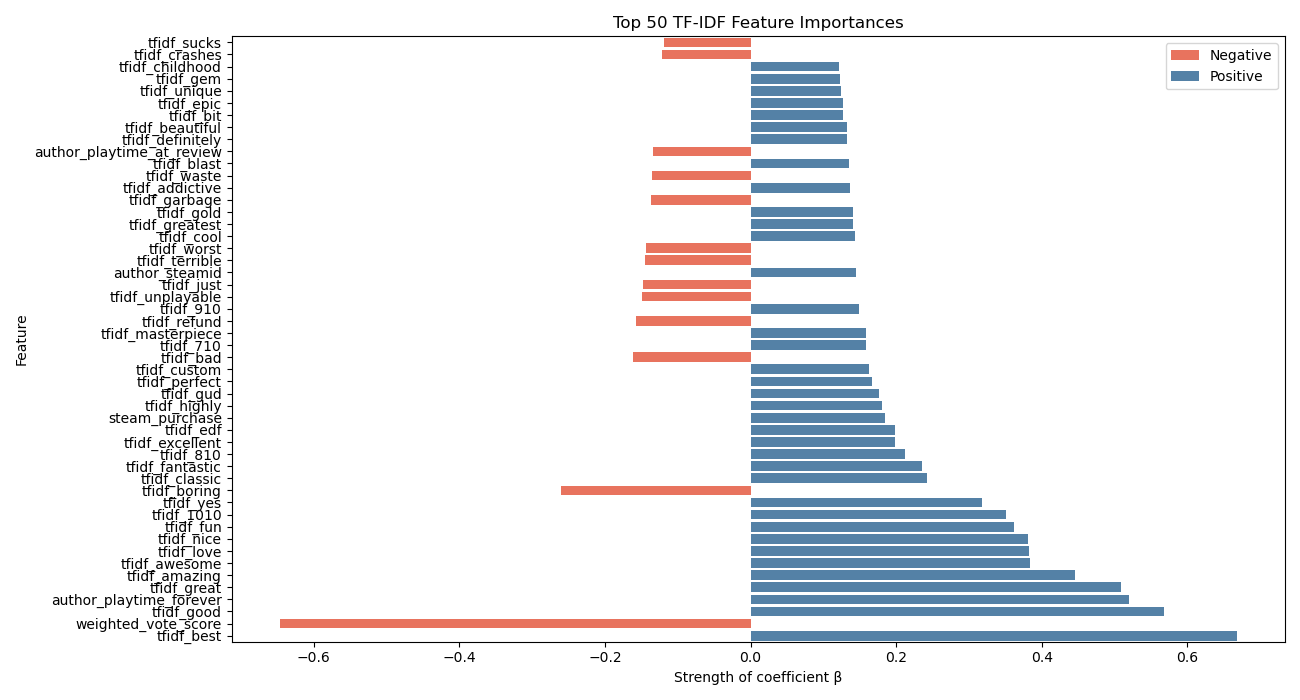
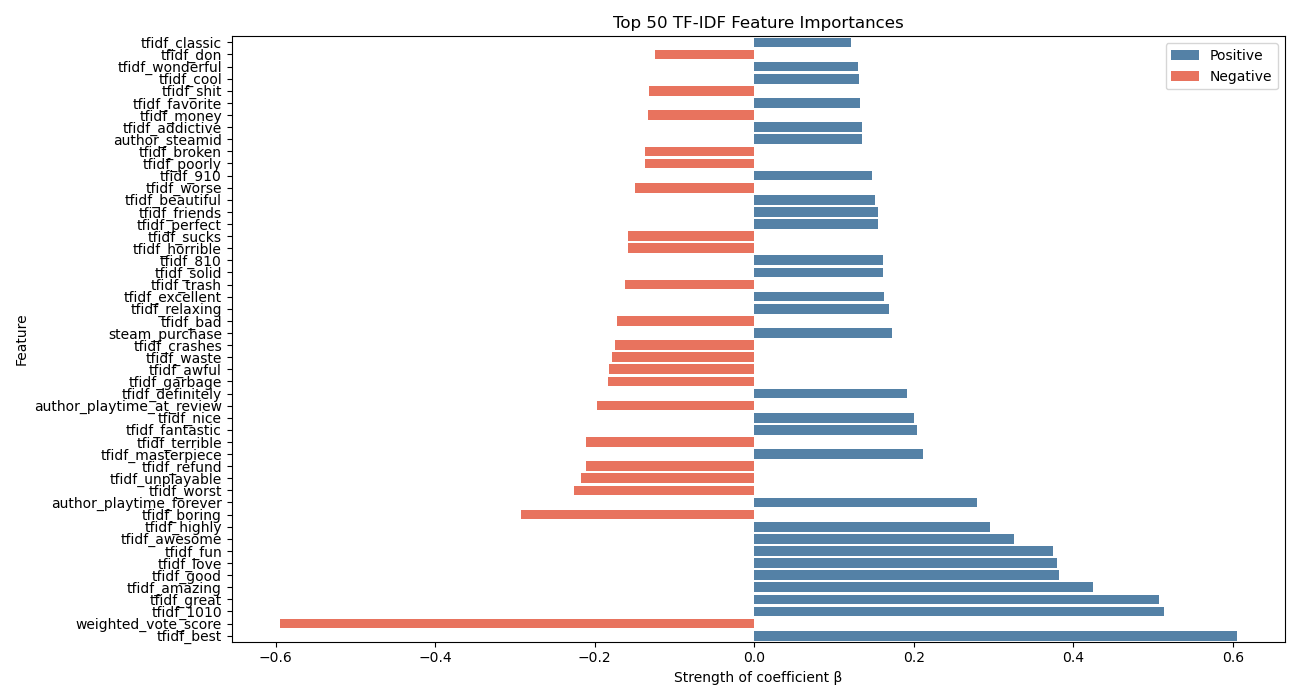
Added more visualizations, hyperparmeter tuning, feature engineering for LR

diff --git a/src/visualization/visualize.py b/src/visualization/visualize.py
@@ -4,6 +4,7 @@ import numpy as np
 import matplotlib.pyplot as plt
 import seaborn as sns
 import os
+from sklearn.metrics import confusion_matrix
 from sklearn.metrics import roc_curve, auc
 
 class LogisticRegressionVisualizer():
@@ -39,6 +40,29 @@ class LogisticRegressionVisualizer():
         plt.savefig(f"{base_dir}/../../reports/figures/feature_importance.png")
         plt.show()
 
+    def plot_confusion_matrix(self, y_test, y_pred):
+        """
+        Plots a heatmap of the confusion matrix showing true vs predicted labels.
+        """
+        cm = confusion_matrix(y_test, y_pred)
+        plt.figure(figsize=(8, 6))
+        sns.heatmap(cm, annot=True, fmt='d', cmap='Blues',
+                    xticklabels=['Predicted Negative', 'Predicted Positive'],
+                    yticklabels=['Actually Negative', 'Actually Positive'])
+        plt.title("Logistic Regression Confusion Matrix")
+        plt.tight_layout()
+        base_dir = os.path.dirname(os.path.abspath(__file__))
+        os.makedirs(f"{base_dir}/../../reports/figures", exist_ok=True)
+        plt.savefig(f"{base_dir}/../../reports/figures/lr_confusion_matrix.png")
+        plt.show()
+        
+    def plot_all(self, y_test, y_pred):
+        """
+        Run all visualizations
+        """
+        self.plot_feature_importance()
+        self.plot_confusion_matrix(y_test, y_pred)
+        
 class RandomForestVisualizer():
     def __init__(self, model, feature_cols):
         self.model = model
@@ -60,7 +84,30 @@ class RandomForestVisualizer():
         os.makedirs(f"{base_dir}/../../reports/figures", exist_ok=True)
         plt.savefig(f"{base_dir}/../../reports/figures/rf_feature_importance.png")
         plt.show()
-
+    
+    def plot_confusion_matrix(self, y_test, y_pred):
+        """
+        Plots a heatmap of the confusion matrix showing true vs predicted labels.
+        """
+        cm = confusion_matrix(y_test, y_pred)
+        plt.figure(figsize=(8, 6))
+        sns.heatmap(cm, annot=True, fmt='d', cmap='Blues',
+                    xticklabels=['Predicted Negative', 'Predicted Positive'],
+                    yticklabels=['Actually Negative', 'Actually Positive'])
+        plt.title("Random Forest Confusion Matrix")
+        plt.tight_layout()
+        base_dir = os.path.dirname(os.path.abspath(__file__))
+        os.makedirs(f"{base_dir}/../../reports/figures", exist_ok=True)
+        plt.savefig(f"{base_dir}/../../reports/figures/rf_confusion_matrix.png")
+        plt.show()
+        
+    def plot_all(self, y_test, y_pred):
+        """
+        Run all visualizations
+        """
+        self.plot_feature_importance()
+        self.plot_confusion_matrix(y_test, y_pred)
+        
 class TFIDFVisualizer():
     def __init__(self, model, feature_cols):
         self.model = model
@@ -90,6 +137,7 @@ class TFIDFVisualizer():
         plt.show()
         
         
+        
 class LSTMVisualizer():
     def __init__(self, model, history, y_test, y_pred, y_pred_proba):
         self.model = model
@@ -100,6 +148,11 @@ class LSTMVisualizer():
         self.base_dir = os.path.dirname(os.path.abspath(__file__))
         
     def plot_training_history(self):
+        """
+        PLots training and validation loss over each epoch.
+        Growing gap between training and validation indicates overfitting,
+        memorizing rather than generalizing. 
+        """
         plt.figure(figsize=(10,5))
         plt.plot(self.history.history["loss"], label="Training Loss", color="steelblue")
         plt.plot(self.history.history["val_loss"], label = "Validation Loss", color = "tomato")
@@ -116,7 +169,6 @@ class LSTMVisualizer():
         """
         Plots a heatmap of the confusion matrix showing true vs predicted labels.
         """
-        from sklearn.metrics import confusion_matrix
         cm = confusion_matrix(self.y_test, self.y_pred)
 
         plt.figure(figsize=(8, 6))
@@ -153,9 +205,41 @@ class LSTMVisualizer():
         """
         Run all visualizations
         """
-        print(f"history: {self.history}")
-        print(f"y_pred: {self.y_pred}")
-        print(f"y_pred_proba: {self.y_pred_proba:}")
         self.plot_training_history()
         self.plot_confusion_matrix()
         self.plot_roc_curve()
+        
+class ModelComparisonVisualizer():
+    def __init__(self, results_dict):
+        """
+        Args:
+            results_dict: Dictionary of model names to their metrics dictionaries
+            Example: {"LR": lr_results, "RF": rf_results, "LSTM": lstm_results}
+        """
+        self.results_dict = results_dict
+        self.base_dir = os.path.dirname(os.path.abspath(__file__))
+
+    def plot_comparison(self):
+        """
+        Plots a grouped bar chart comparing accuracy, precision,
+        recall and f1 score across all models.
+        """
+        metrics = ["accuracy", "precision", "recall", "f1_score"]
+
+        comparison_df = pd.DataFrame({
+            model: [results[m] for m in metrics]
+            for model, results in self.results_dict.items()
+        }, index=metrics)
+
+        comparison_df.plot(kind="bar", figsize=(12, 6), colormap="Set2", edgecolor="black")
+        plt.xlabel("Metric")
+        plt.ylabel("Score")
+        plt.title("Model Comparison")
+        plt.xticks(rotation=0)
+        plt.ylim(0, 1)
+        plt.legend(title="Model")
+        plt.tight_layout()
+        os.makedirs(f"{self.base_dir}/../../reports/figures", exist_ok=True)
+        plt.savefig(f"{self.base_dir}/../../reports/figures/model_comparison.png")
+        plt.show()
+    

diff --git a/src/models/train_model.py b/src/models/train_model.py
@@ -2,9 +2,9 @@
 import joblib
 import os
 import sklearn.linear_model as skl_lm
-from sklearn.model_selection import GridSearchCV
 from sklearn.preprocessing import StandardScaler
 from sklearn.ensemble import RandomForestClassifier
+from sklearn.model_selection import RandomizedSearchCV
 from sklearn.metrics import accuracy_score, precision_score, recall_score, f1_score, confusion_matrix
 import pandas as pd
 import numpy as np
@@ -136,12 +136,50 @@ class BasicRandomForestTraining:
         self.X_test = self.test_df[features]
         self.y_test = self.test_df[target_variable]
 
-    def train(self):
+    def tune_hyperparameters(self):
+        """
+        Usee RandomizedSearchCV to find optimal hyperparameters for
+        RandomForest model
+
+        Returns:
+            best_params_: Dictionary of the best hyperparams
+        """
+        param_dist = {
+            "n_estimators": [50, 100, 200],
+            "max_depth": [None, 10, 20, 30],
+            "min_samples_split": [2, 5, 10],
+            "max_features": ["sqrt", "log2"]
+        }
+        
+        random_search = RandomizedSearchCV(
+            RandomForestClassifier(class_weight="balanced", random_state=42),
+            param_distributions=param_dist,
+            n_iter=10,
+            cv=3,
+            scoring="f1",
+            verbose=1,
+            random_state=42
+        )
+
+        random_search.fit(self.X_train, self.y_train)
+        
+        print(f"Best parameters: {random_search.best_params_}")
+        print(f"Best F1 score: {random_search.best_score_:.4f}")
+
+        return random_search.best_params_
+    
+    def train(self, best_params=None):
         """
         Trains the Random Forest model and saves it to disk.
         No scaling required since decision trees are not
         sensitive to feature scale.
         """
+        if best_params:
+            self.model = RandomForestClassifier(
+            class_weight="balanced",
+            random_state=42,
+            **best_params
+        )
         self.model.fit(self.X_train, self.y_train)
 
         base_dir = os.path.dirname(os.path.abspath(__file__))
@@ -168,6 +206,14 @@ class BasicRandomForestTraining:
     def run_rf_pipeline(self):
         self.set_features()
         self.train()
+        #Train without tuning to compare results
+        default_results = self.evaluate()
+        print("\nDefault Random Forest Results:")
+        for k, v in default_results.items():
+            print(f"{k}: {v}")
+        #Train with tuning
+        best_params = self.tune_hyperparameters()
+        self.train(best_params)
         return self.evaluate()
     
 class LSTMTraining:

diff --git a/src/main.py b/src/main.py
@@ -2,20 +2,24 @@
 from preprocessing_data.pre_processing import PreProcessor
 from feature_engineering.build_features import LogisticRegressionFeatureEngineering, TFIDFFeatureEngineering,LSTMFeatureEngineering
 from models.train_model import BasicLogisticRegressionTraining, BasicRandomForestTraining,LSTMTraining
-from visualization.visualize import LogisticRegressionVisualizer, RandomForestVisualizer, TFIDFVisualizer,LSTMVisualizer
+from visualization.visualize import LogisticRegressionVisualizer, RandomForestVisualizer, TFIDFVisualizer,LSTMVisualizer, ModelComparisonVisualizer
 
 def main():
-    processor = PreProcessor("src/data/raw/all_reviews.csv")
-    df = processor.preprocess(1000000)
+    processor = PreProcessor("src/data/raw/balanced_10m_reviews.csv")
+    df = processor.preprocess(100000)
     
     feature_builder = LogisticRegressionFeatureEngineering(df)
+    #Save original feature list
+    original_feature_cols = feature_builder.feature_cols.copy()
+    base_train_df, base_test_df = feature_builder.split_data()
+    #Add new features for LR only
     feature_builder.votes_ratio()
     feature_builder.playtime_ratio()
     feature_builder.review_length()
-    base_train_df, base_test_df = feature_builder.split_data()
+    lr_train_df, lr_test_df = feature_builder.split_data()
     feature_builder.save_data(base_train_df, base_test_df)
     
-    lr_trainer = BasicLogisticRegressionTraining(base_train_df, base_test_df, feature_builder)
+    lr_trainer = BasicLogisticRegressionTraining(lr_train_df, lr_test_df, feature_builder)
     lr_results = lr_trainer.run_lr_pipeline()
     
     print("\nLogistic Regression Results:")
@@ -23,8 +27,8 @@ def main():
         print(f"{k}: {v}")
     
     plot = LogisticRegressionVisualizer(lr_trainer.model, feature_builder.feature_cols)
-    plot.plot_feature_importance()
-    """
+    plot.plot_all(lr_trainer.y_test, lr_trainer.y_pred)
+    
     tfidf_builder = TFIDFFeatureEngineering(df, max_features=1000)
     tfidf_builder.build_tfidf_features()
     tfidf_train_df, tfidf_test_df = tfidf_builder.split_data()
@@ -41,7 +45,7 @@ def main():
 
     tfidf_plot = TFIDFVisualizer(tfidf_trainer.model, tfidf_builder.feature_cols)
     tfidf_plot.plot_feature_importance(top_n=50)
-
+    
     # Random Forest
     rf_trainer = BasicRandomForestTraining(base_train_df, base_test_df)
     rf_results = rf_trainer.run_rf_pipeline()
@@ -51,9 +55,9 @@ def main():
         print(f"{k}: {v}")
     
 
-    rf_plot = RandomForestVisualizer(rf_trainer.model, feature_builder.feature_cols)
-    rf_plot.plot_feature_importance()
-    
+    rf_plot = RandomForestVisualizer(rf_trainer.model, original_feature_cols)
+    rf_plot.plot_all(rf_trainer.y_test, rf_trainer.y_pred)
+
     #LSTM
     lstm_builder = LSTMFeatureEngineering(df)
     lstm_train_df, lstm_test_df = lstm_builder.split_data()
@@ -66,6 +70,14 @@ def main():
     lstm_plot = LSTMVisualizer(lstm_trainer.model, lstm_trainer.history, lstm_trainer.y_test, lstm_trainer.y_pred, lstm_trainer.y_pred_proba)
     lstm_plot.plot_all()
     
-    """
+    
+    comparison = ModelComparisonVisualizer({
+        "Logistic Regression": lr_results,
+        "Random Forest": rf_results,
+        "TF-IDF LR": tfidf_results,
+        "LSTM": lstm_results
+    })
+    comparison.plot_comparison()
+    
 if __name__ == "__main__":
     main()

diff --git a/src/preprocessing_data/pre_processing.py b/src/preprocessing_data/pre_processing.py
@@ -305,7 +305,7 @@ class PreProcessor:
             self.df: DataFrame
         """
         self.load_data(nrows=nrows)
-        self.remove_uninteresting_columns()
+        #self.remove_uninteresting_columns()
         self.filter_english_reviews()
         self.remove_no_playtime()
         self.remove_playtime_outliers()